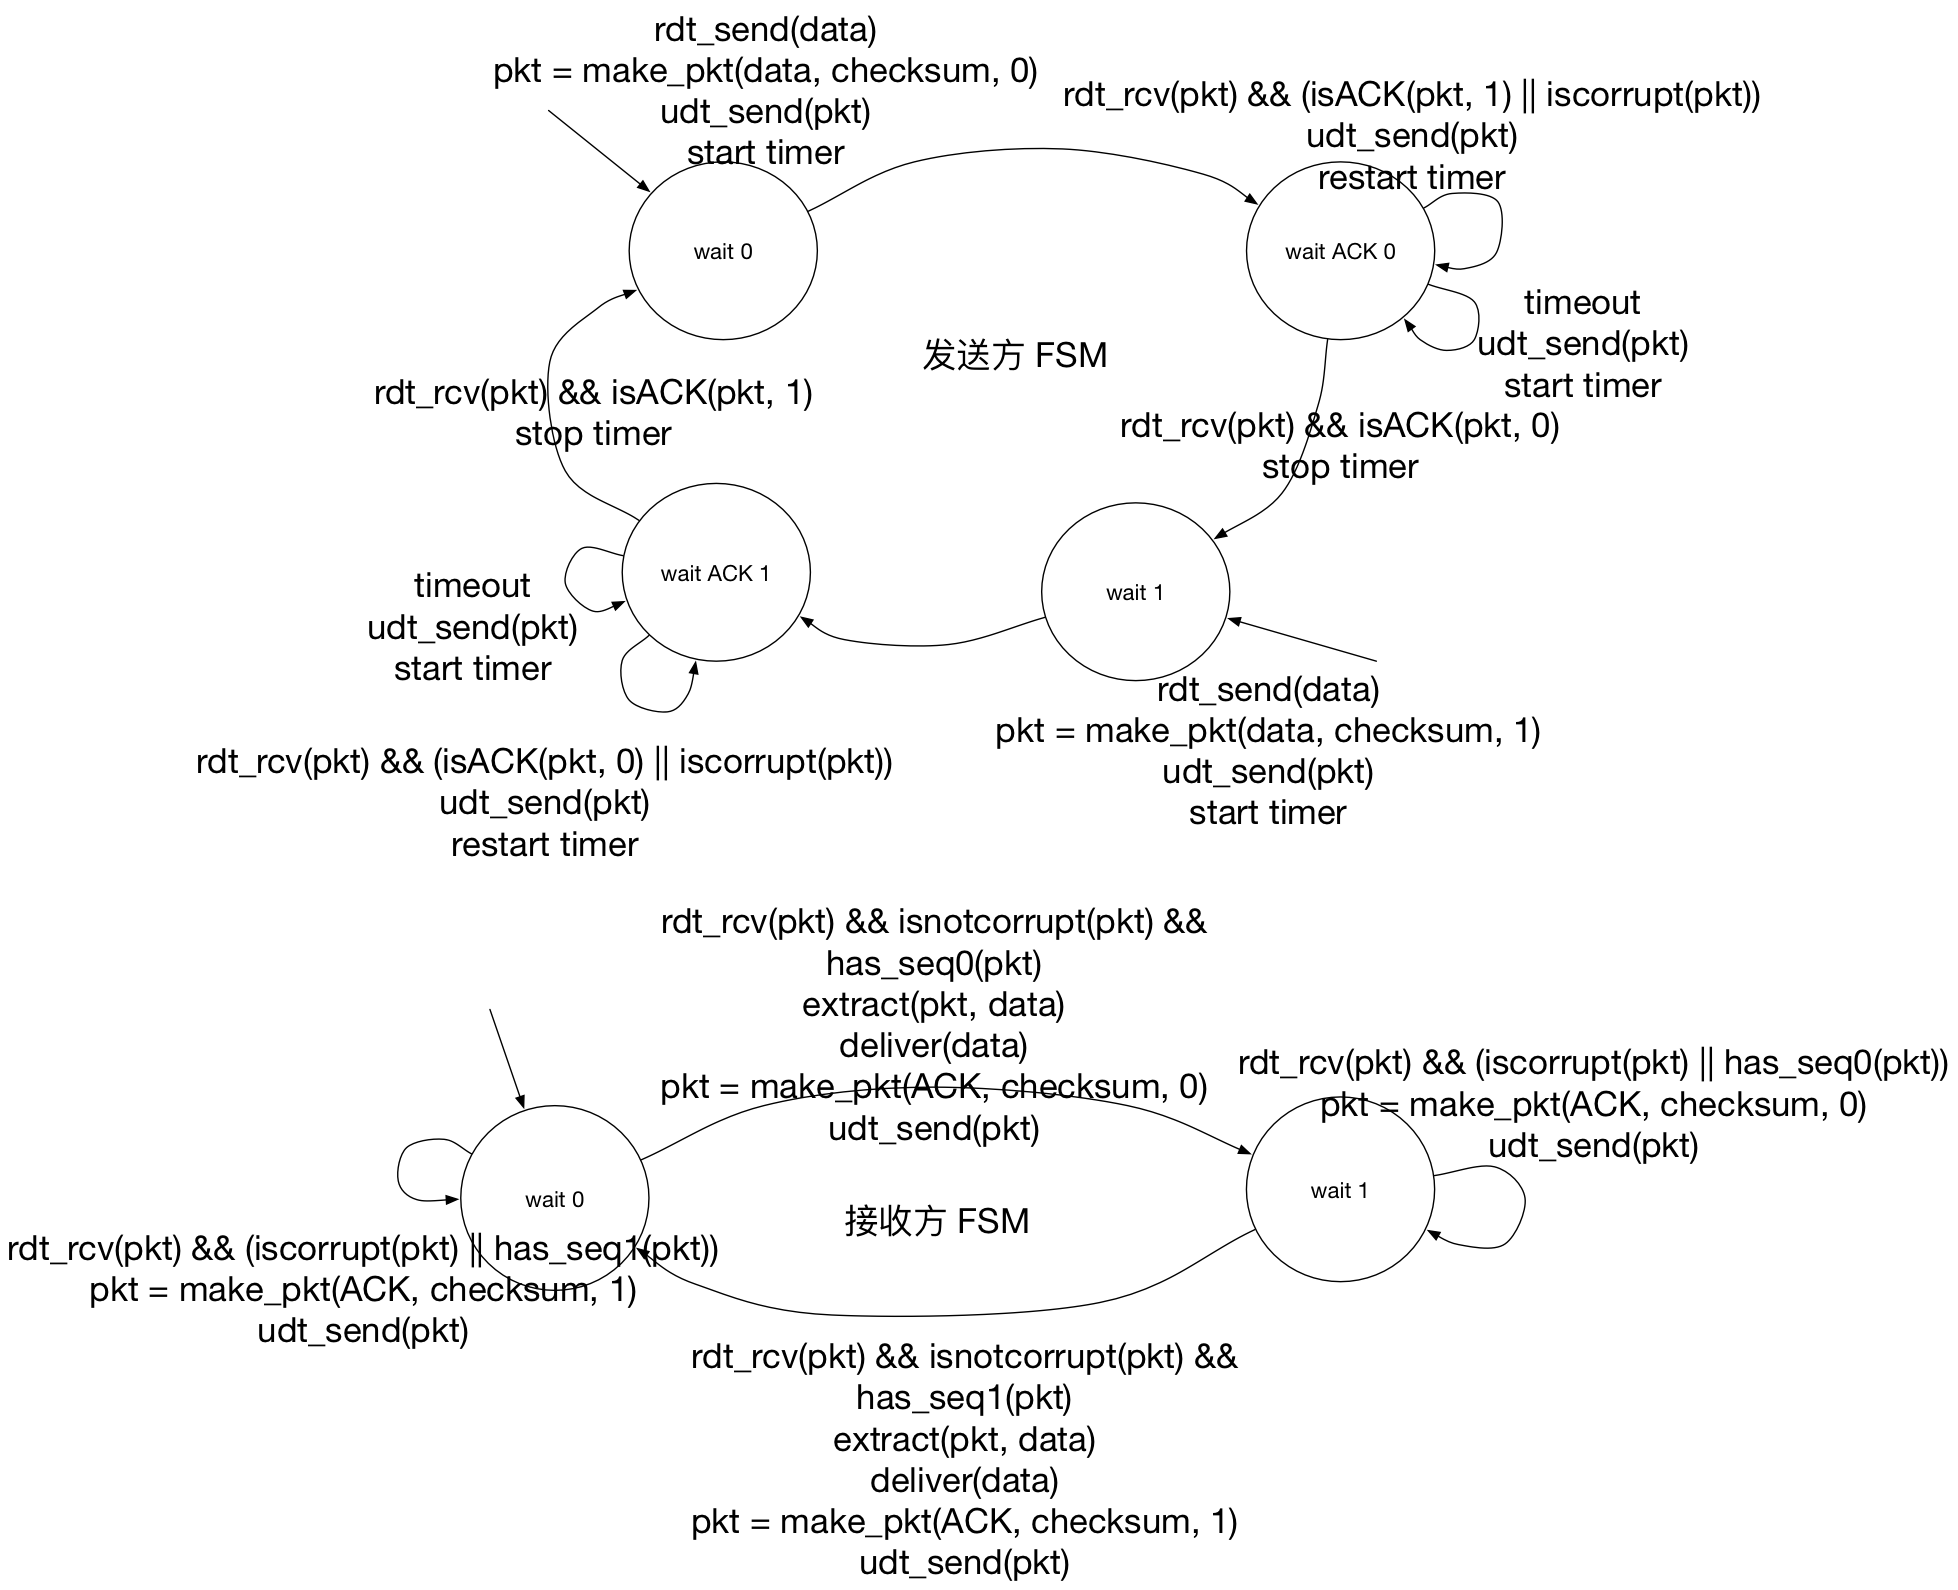
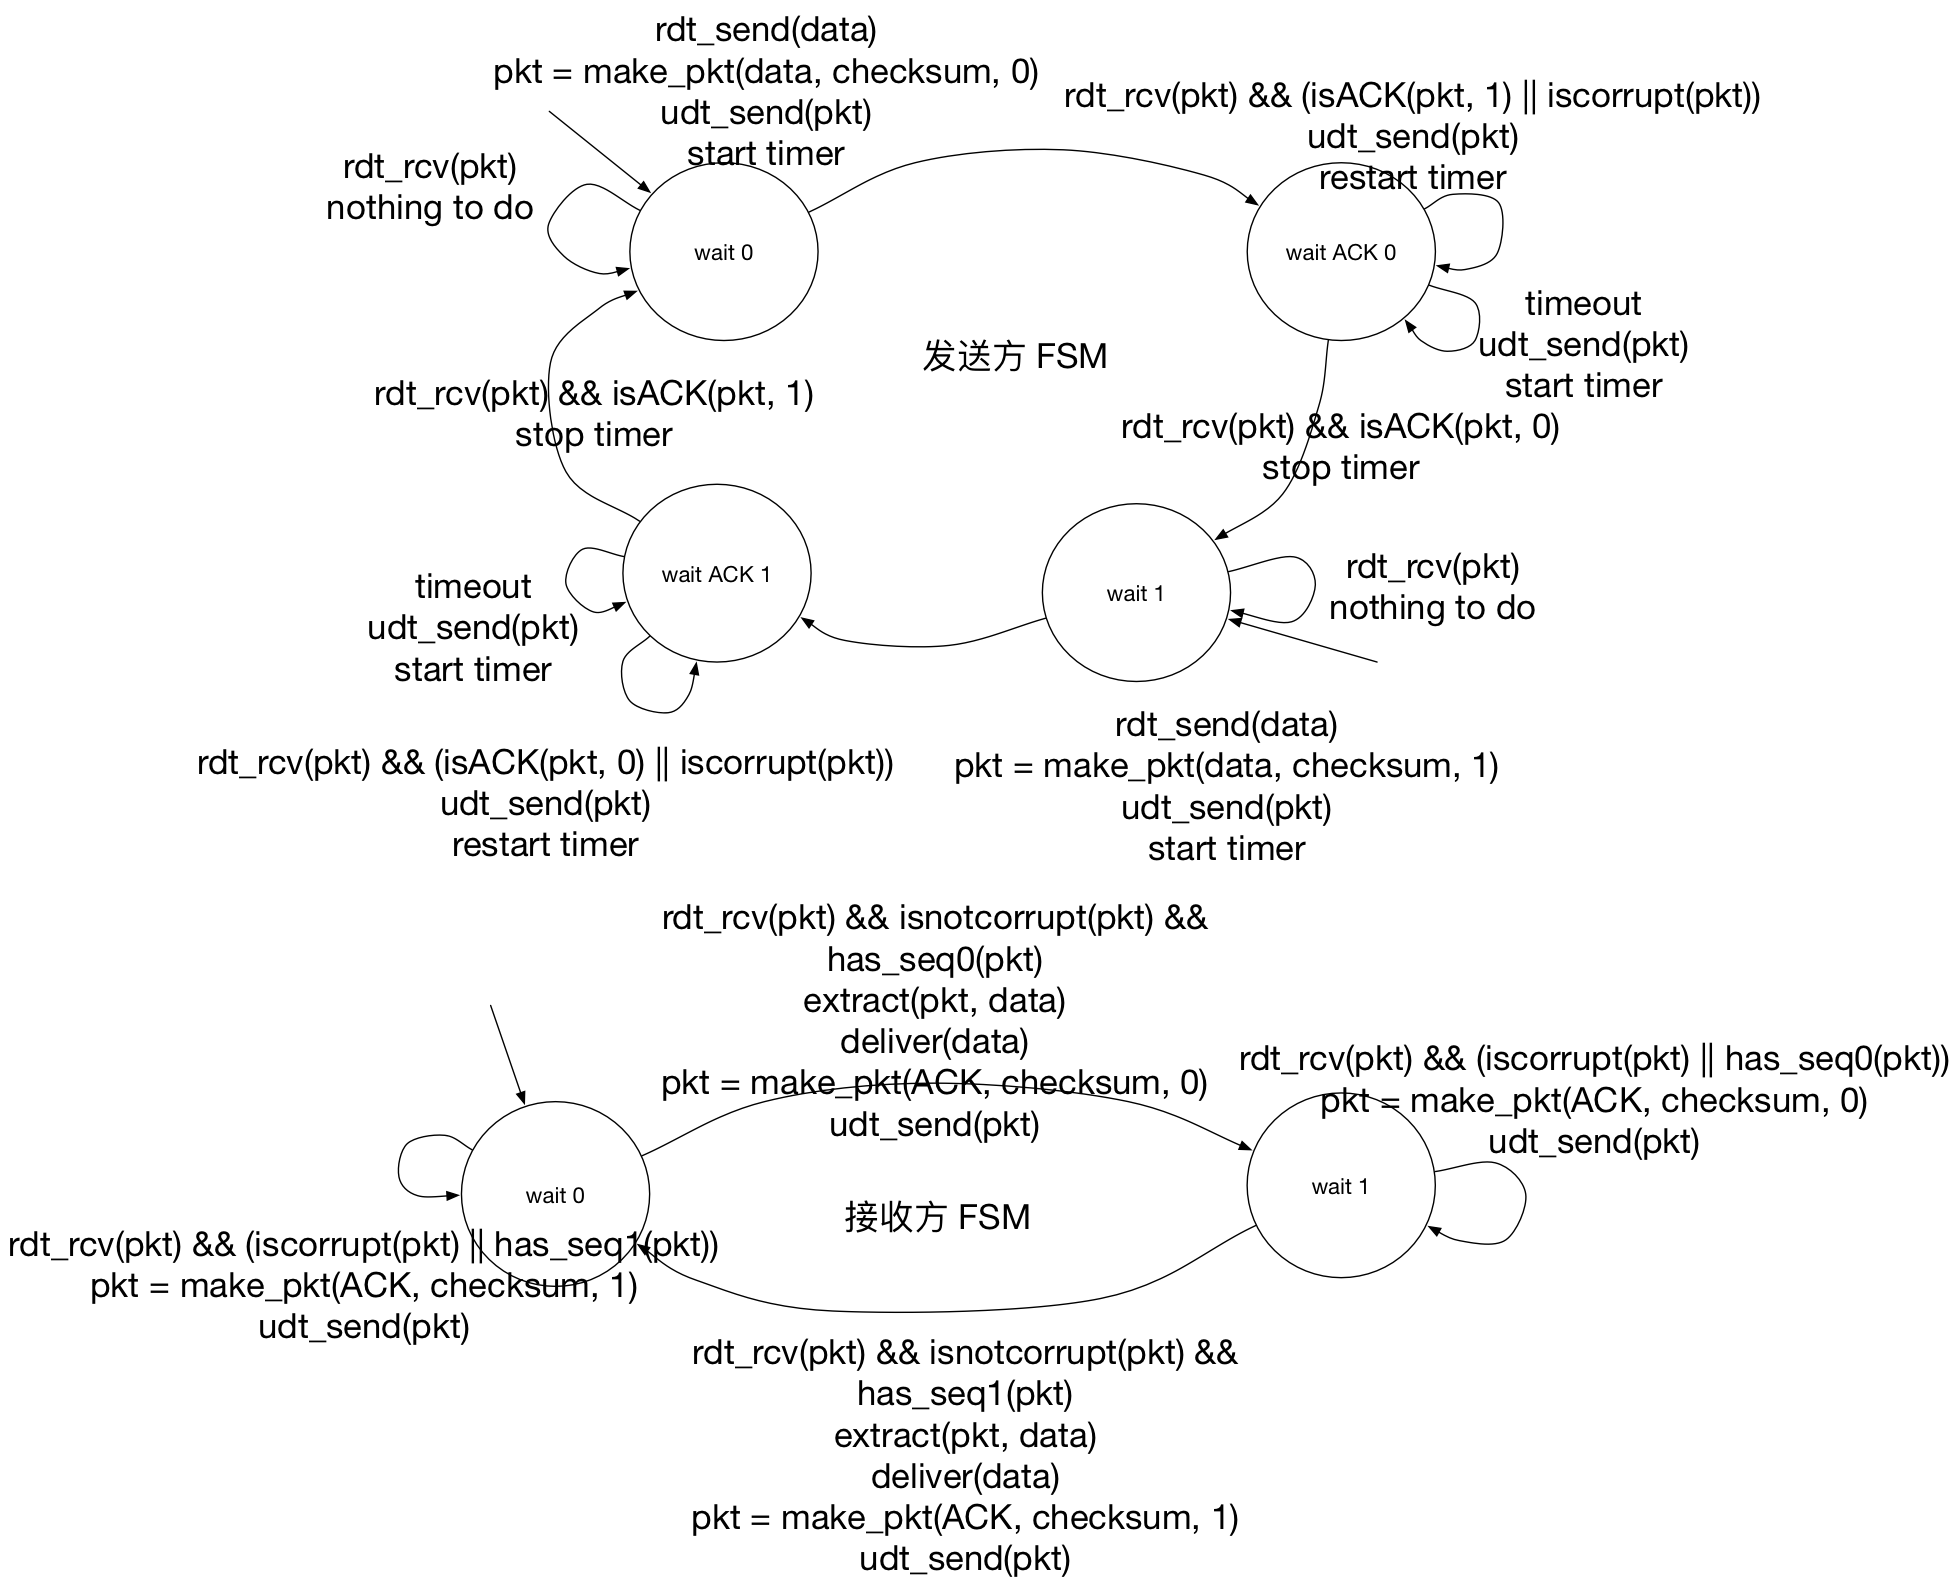
欠考虑了超时发生时重传分组但其实分组没有丢失的情况，此时发送方会连续收到两个 ACK 确认报文

diff --git a/03 运输层/复习题-习题解答_34.md b/03 运输层/复习题-习题解答_34.md
@@ -20,6 +20,8 @@
 
 #### R11 假定发送方和接收方之间的往返时延是固定的并且为发送方所知。假设分组能够丢失的话，在协议 rdt 3.0 中，一个定时器仍是必需的吗？试解释之。
 
+> 
+
 #### R12 在配套网站上使用 Go-Back-N (回退 N 步) Java 小程序。
 #### a. 让源发送 5 个分组，在这 5 个分组的任何一个到达目的地之前暂停该动画。然后毁掉第一个分组并继续该动画。试描述发生的情况。
 #### b. 重复该实验，指示现在让第一个分组到达目的地并毁掉第一个确认。再次描述发生的情况。
